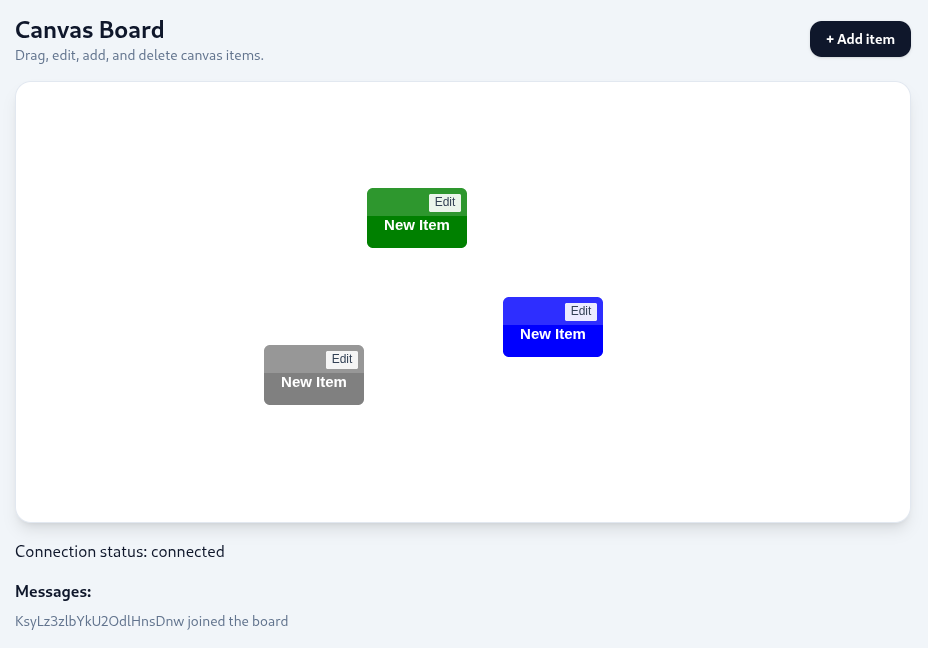
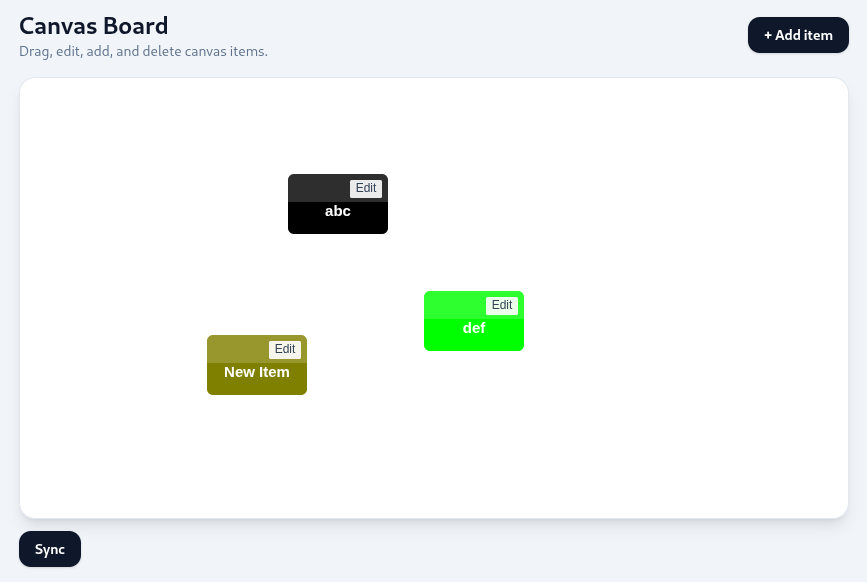
Updated image and spacing

diff --git a/Frontend/src/App.tsx b/Frontend/src/App.tsx
@@ -416,7 +416,7 @@ function App() {
           }
         </div>
 
-        <button type="button" className='rounded-xl bg-slate-900 px-4 py-2 text-sm font-semibold text-white shadow-sm hover:bg-slate-700' onClick={() => GetBoardCommand(connection)}>Sync</button>
+        <button type="button" className='mt-3 rounded-xl bg-slate-900 px-4 py-2 text-sm font-semibold text-white shadow-sm hover:bg-slate-700' onClick={() => GetBoardCommand(connection)}>Sync</button>
 
         {/* <div className='pt-4'>
           <p>Connection status: {connectionStatus}</p>